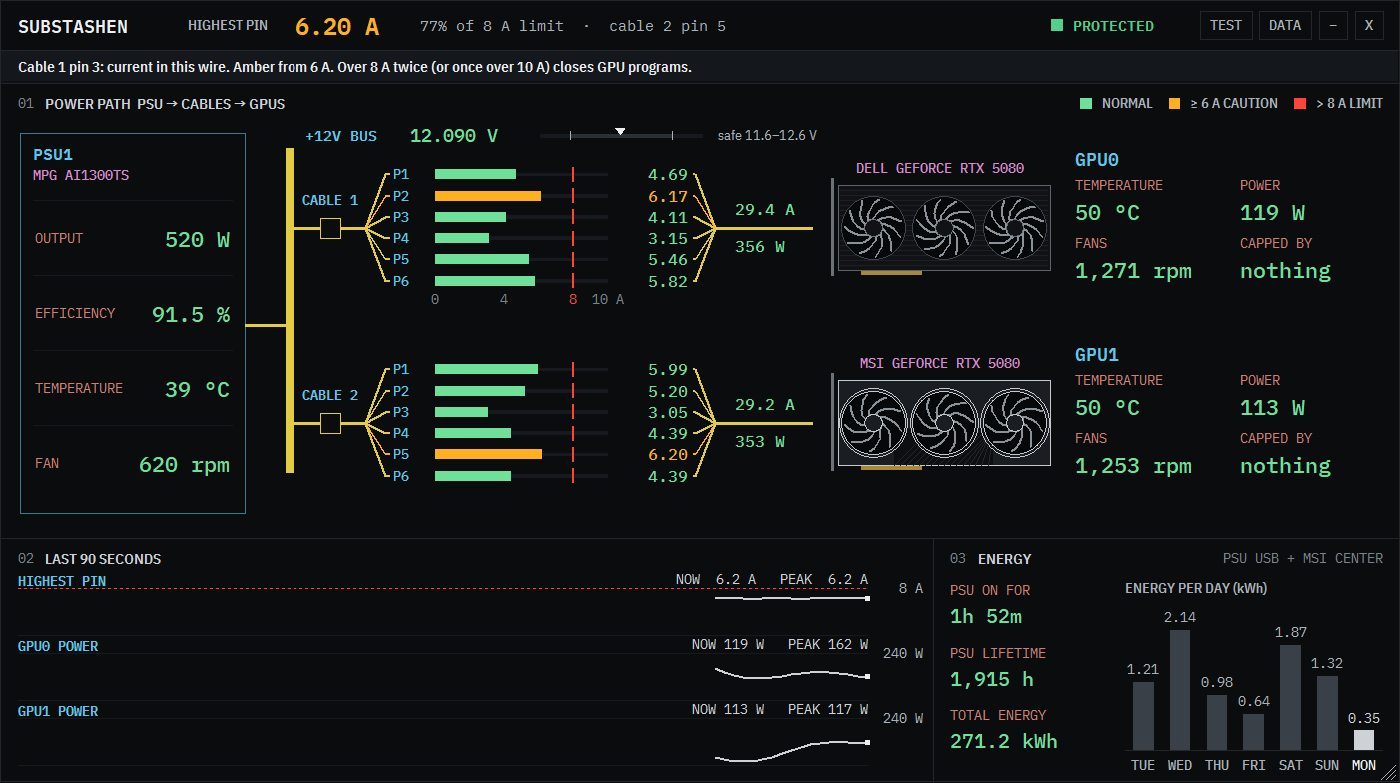
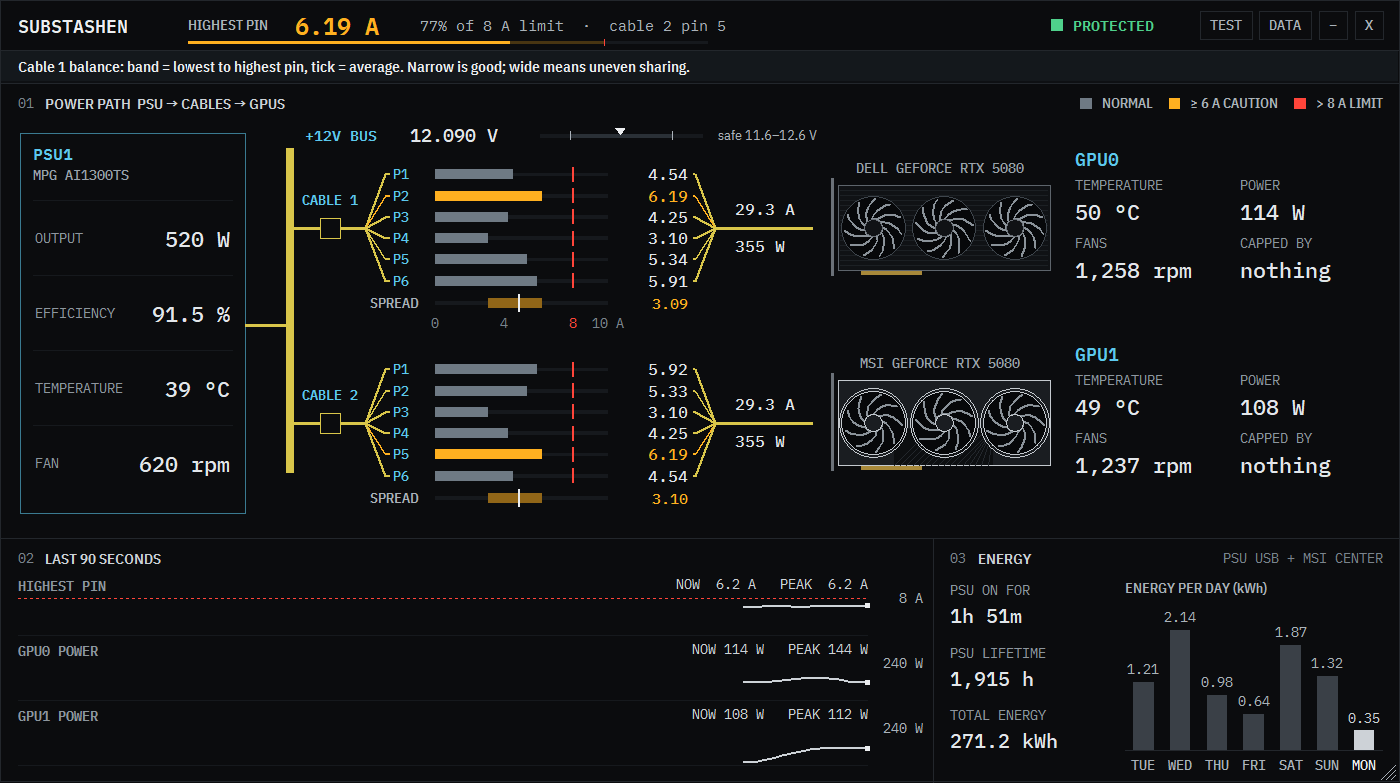
Calm palette and cleaner layout
Grey labels and normal pin bars so caution/limit colours stand out, header
headroom underline, per-cable balance strip, trend labels clear of the limit
line. README and screenshots refreshed.

diff --git a/README.md b/README.md
@@ -46,13 +46,14 @@ The warning rules only warn. Only the 8 A rule and the PSU alarm close programs.
 
 ## The panel
 
-- **HIGHEST PIN**: the highest of the 12 currents and how close it is to the 8 A limit, at a glance.
+- **HIGHEST PIN**: the highest of the 12 currents, how close it is to the 8 A limit, and a headroom bar (caution zone 6–8 A, red tick at the limit) you can read from across the room.
+- **Balance strip under each cable**: a band from the cable's lowest to its highest pin. Narrow means the pins share evenly; wide means one pin is doing more than its share. It turns amber at the same point the uneven-current warning fires.
 - **Power path diagram**: PSU → +12 V bus (with its safe 11.6–12.6 V range) → cable 1 and cable 2 → six pins each → the card they feed.
   Each pin has its live value and a bar against the 8 A limit. The cable-to-card match is worked out
   automatically from watts.
 - **Line drawings of each card** with fans that turn at their real speed, plus temperature, power, fans and what is capping its clock (*CAPPED BY: voltage / power / heat*, which is normal).
 - **LINK row**: shows *ALL SENSORS OK*, or exactly which data source is missing and a button to fix it.
-- **Trends**: worst pin and each GPU's power over 90 s, auto-scaled.
+- **Last 90 seconds**: the highest pin and each GPU's power over 90 s, auto-scaled.
 - **Energy**: PSU uptime and lifetime hours read from the PSU over USB, plus kWh from MSI Center's record.
 - **Hover anything** for a plain-English explanation.
 
@@ -64,7 +65,7 @@ The warning rules only warn. Only the 8 A rule and the PSU alarm close programs.
 |---|---|
 | ![Hover help](docs/screenshots/hover-help.png) | ![Night mode](docs/screenshots/night-mode.png) |
 
-Colour carries meaning only: grey and green are normal, **amber** means caution or not protected, and **red**
+Colour carries meaning only: labels and normal bars are grey, green means healthy, **amber** means caution or not protected, and **red**
 means over a limit. The design follows high-performance HMI practice: calm when healthy, loud when not.
 
 ## Requirements
